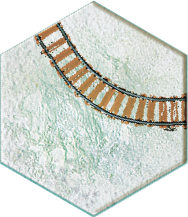
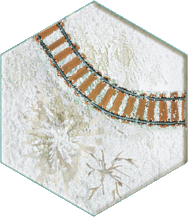
snow update

diff --git a/src/scenario/createScenario.js b/src/scenario/createScenario.js
@@ -19,13 +19,15 @@ export const CreateScenario = () =>{
   const [final,setFinal] = useState({case:null,bunker:null,defense:null,unité:null,medal:null});
   const [actualx,setActualX]  = useState(0);
   const [actualy,setActualY] = useState(0);
-  const debug = false;
   const [modal, setModal] = useState(<></>)
+  const [typeHexagone,setTypeHexagone] = useState(0)
   const screenwidth = document.getElementById("maindiv") ? document.getElementById("maindiv").clientWidth : null;
-
+  
+  const debug = false;
   let nbItemByLigne = screenwidth < 2000 ? 12 : 18;
-  let wheel = 1;
+  let wheel = 10;
   let layoutPetitEcran = false;
+
   let listHexagone = [
     "Country",
     "Hills",
@@ -68,9 +70,52 @@ export const CreateScenario = () =>{
     "TrainBranchRight",
     "TrainX",
     "TrainXRoad",
-    "Station",
+    "Station"
+
+  ]
+  let SnowlistHexagone = [
+    "Country",
+    "SnowHill",
+    "Mountain",
+    "SnowForest",
+    "Hedgerow",
+    "SnowRiversRight",
+    "SnowRiversCurve",
+    "RiverBranchLeft",
+    "RiverBranchRight",
+    "RiverY",
+    "Dam",
+    "Pond",
+    "LakeA",
+    "LakeB",
+    "LakeC",
+    "RoadRight",
+    "RoadCurve",
+    "RoadBranchLeft",
+    "RoadBranchRight",
+    "RoadX",
+    "RoadY",
+    "RoadHillRight",
+    "RoadHillCurve",
+    "SnowAirField",
+    "SnowAirFieldX",
+    "SnowVillage",
+    "Church",
+    "Barracks",
+    "Camp",
+    "Cemetery",
+    "Depot",
+    "SnowFactory",
+    "Fortress",
+    "LightHouse",
+    "Marshes",
     "SnowTrainRight",
-    "SnowTrainCurve"
+    "SnowTrainCurve",
+    "SnowTrainBranchLeft",
+    "SnowTrainBranchRight",
+    "TrainX",
+    "TrainXRoad",
+    "SnowStation",
 
   ]
   let listDivers = [
@@ -341,8 +386,9 @@ export const CreateScenario = () =>{
   const showingCard = useMemo(() => {
     let listHexagoneFinal = [];
     let listDiversFinal = [];
-    for(let i = 0;i<=parseInt(Object.keys(listHexagone).length/nbItemByLigne);i++){
-      let local = listHexagone.slice(i*nbItemByLigne,(i+1)*nbItemByLigne)
+    let listHexagone2 = typeHexagone == 0 ? listHexagone : SnowlistHexagone;
+    for(let i = 0;i<=parseInt(Object.keys(listHexagone2).length/nbItemByLigne);i++){
+      let local = listHexagone2.slice(i*nbItemByLigne,(i+1)*nbItemByLigne)
       listHexagoneFinal.push(
         <div className={`flex flew-row mb-[20px]`} key={`hexagone-${i}`}>
         {local.map((item,pos)=>{return <div className={`${screenwidth < 2000 ? "w-[50px]" : "w-[65px]"} relative`} key={item} onMouseEnter={()=>{UpdateGrille("case",item == "Country" ? null : returnHexagone(item,orientation))}}   onClick={()=>{setFinal({...final,case:final.case ? null : returnHexagone(item,0)})}} >{returnHexagone(item,0).hexagone.render()}</div>})}
@@ -359,6 +405,16 @@ export const CreateScenario = () =>{
     }  
     return <div className='ml-8 mt-8 flex flex-row'>
       <div className='flex flex-col '>
+        <div className="flex flex-row gap-8"> 
+          <div className="bg-lightgrey w-fit p-2 rounded-full flex flex-row gap-4 hover:cursor-pointer" onClick={()=>{setTypeHexagone(0)}}>
+            <div className="flex center"><div className={`w-4 h-4 rounded-full ${typeHexagone == 0 ? "bg-white border-4 border-green":"bg-gray"}`}></div></div>
+            <label> Plaine</label>
+          </div>
+          <div className="bg-lightgrey w-fit p-2 rounded-full flex flex-row gap-4 hover:cursor-pointer" onClick={()=>{setTypeHexagone(1)}}>
+            <div className="flex center"><div className={`w-4 h-4 rounded-full ${typeHexagone == 1 ? "bg-white border-4 border-green":"bg-gray"}`}></div></div>
+            <label> Snow</label>
+          </div>
+        </div>
         <h1 className="text-[24px] text-white mb-[10px] "> Choissiez l'hexagone : </h1>
         <div className="flex flex-col ">
           {listHexagoneFinal}
@@ -403,7 +459,7 @@ export const CreateScenario = () =>{
     </div>
 
   }
-  , [status,actualx,actualy,final,mouse])
+  , [status,actualx,actualy,final,mouse,typeHexagone])
   const Modal = useMemo(() => <div className='absolute top-0 '>{modal}</div>, [modal]);
 
   const global = useMemo(()=>{

diff --git a/src/haxagone/snow.js b/src/haxagone/snow.js
@@ -10,7 +10,65 @@ export class SnowTrainCurve extends CaseGenerique{
         super(test6("snow","h_snowrailcurve",orientation),orientation,false,false,false,false,false,false,false,"abrightness-[0.7] ")
     }
 }
+export class SnowTrainBranchLeft extends CaseGenerique{
+    constructor(orientation){
+        super(test6("snow","h_snowrailFL",orientation),orientation,false,false,false,false,false,false,false,"abrightness-[0.7] ")
+    }
+}
 
+export class SnowTrainBranchRight extends CaseGenerique{
+    constructor(orientation){
+        super(test6("snow","h_snowrailFR",orientation),orientation,false,false,false,false,false,false,false,"abrightness-[0.7] ")
+    }
+}
+export class SnowStation extends CaseGenerique{
+    constructor(orientation){
+        super(test3("snow","h_snowstation",orientation),orientation,false,false,false,false,false,false,false,"abrightness-[0.7] ")
+    }
+}
+
+export class SnowForest extends CaseGenerique{
+    constructor(orientation){
+        super(`images/snow/h_wforest.png`,null,{soldat:-2,tank:-2},true,false,true,false,false,false,"abrightness-[0.60] ")
+    }
+}
+export class SnowHill extends CaseGenerique{
+    constructor(orientation){
+        super(`images/snow/h_whill.png`,null,{soldat:-2,tank:-2},true,false,true,false,false,false,"abrightness-[0.60] ")
+    }
+}
+export class SnowVillage extends CaseGenerique{
+    constructor(orientation){
+        super(`images/snow/h_wvillage.png`,null,{soldat:-2,tank:-2},true,false,true,false,false,false,"abrightness-[0.60] ")
+    }
+}
+
+export class SnowRiversRight extends CaseGenerique{
+    constructor(orientation){
+        super(test3("snow","h_wriver",orientation),orientation,false,false,false,false,false,false,false,"")   
+    }
+}
+export class SnowRiversCurve extends CaseGenerique{
+    constructor(orientation){
+        super(test6("snow","h_wcurved",orientation),orientation,false,false,false,false,false,false,false," ")
+           }
+}
+export class SnowFactory extends CaseGenerique{
+    constructor(orientation){
+        super(`images/snow/h_wfactory.png`,null,{soldat:-2,tank:-2},true,false,true,false,false,false,"abrightness-[0.60] ")
+    }
+}
+
+export class SnowAirField extends CaseGenerique{
+    constructor(orientation){
+        super(test3("snow","h_wairfield",orientation),orientation,false,false,false,false,false,false,false,"")   
+    }
+}
+export class SnowAirFieldX extends CaseGenerique{
+    constructor(orientation){
+        super(test3("snow","h_wairfieldX",orientation),orientation,false,false,false,false,false,false,false,"")   
+    }
+}
 
 //how edit snow image
 // saturation -16 87 0

diff --git a/src/haxagone/base.js b/src/haxagone/base.js
@@ -1,6 +1,6 @@
 import { CaseGenerique, test3, test6 } from "../divers/Generique";
 import { Medal, SelectHexa } from "./highlight";
-import { SnowTrainCurve, SnowTrainRight } from "./snow";
+import { SnowAirField, SnowAirFieldX, SnowFactory, SnowForest, SnowHill, SnowRiversCurve, SnowRiversRight, SnowStation, SnowTrainBranchLeft, SnowTrainBranchRight, SnowTrainCurve, SnowTrainRight, SnowVillage } from "./snow";
 import { AirField, AirFieldX, Barracks, Camp, Casemate, Cemetery, Church, Dam, Depot, Factory, Ford, Fortress, LakeA, LakeB, LakeC, LightHouse, Loco, Marshes, Mountain, Pond, Pontoon, RailBridge, RiverBranchLeft, RiverBranchRight, RiverY, RoadBlock, RoadBranchLeft, RoadBranchRight, RoadCurve, RoadHillCurve, RoadHillRight, RoadRight, RoadX, RoadY, Station, TrainBranchLeft, TrainBranchRight, TrainCurve, TrainRight, TrainX, TrainXRoad, Wagon } from "./terrain";
 
 export class Country extends CaseGenerique {
@@ -193,6 +193,28 @@ export function returnHexagone(text,orientation){
             return {hexagone:new SnowTrainRight(orientation),orientation:3}
         case "SnowTrainCurve":
             return {hexagone:new SnowTrainCurve(orientation),orientation:6}
+        case "SnowTrainBranchLeft":
+            return {hexagone: new SnowTrainBranchLeft(orientation),orientation:6}
+        case "SnowTrainBranchRight":
+            return {hexagone: new SnowTrainBranchRight(orientation),orientation:6}
+        case "SnowStation":
+            return {hexagone: new SnowStation(orientation),orientation:3}
+        case "SnowForest":
+            return {hexagone: new SnowForest(),orientation:0}
+        case "SnowHill":
+            return {hexagone: new SnowHill(),orientation:0}
+        case "SnowVillage":
+            return {hexagone: new SnowVillage(),orientation:0}
+        case "SnowRiversRight":
+            return {hexagone: new SnowRiversRight(orientation),orientation:3}
+        case "SnowRiversCurve":
+            return {hexagone: new SnowRiversCurve(orientation),orientation:6}
+        case "SnowFactory":
+            return {hexagone: new SnowFactory(),orientation:0}
+        case "SnowAirField":
+            return {hexagone: new SnowAirField(orientation),orientation:3}
+        case "SnowAirFieldX":
+            return {hexagone: new SnowAirFieldX(orientation),orientation:3}
         case "":
             return {hexagone: null,orientation:0}
         default:

diff --git a/src/scenario/index.js b/src/scenario/index.js
@@ -2,7 +2,7 @@ import { useState,useMemo } from "react";
 import { Scenariovide } from "./scenariovide";
 import { Scenariotest } from './scenariotest';
 
-import {Assaultsurvassieuxenvercours,Batailledesaintnizier,Marquisdemalleval,SacrificeàValchevrière,Défensedespas} from "./batailleduvercors/index"
+import {Assaultsurvassieuxenvercours,Batailledesaintnizier,Marquisdemalleval,SacrificeaValchevrière,Défensedespas} from "./batailleduvercors/index"
 import {PegasusBridge,PointeDuHoc,SainteMereEglise,SwordBearch,OmahaBeach,MontMouchet } from "./batailledebarquement/index"
 
 import { Link } from 'react-router-dom';
@@ -69,7 +69,7 @@ export function ReturnScenario(scenarioname){
         case "Marquisdemalleval":
             return Marquisdemalleval; 
         case "SacrificeaValchevrière":
-            return SacrificeàValchevrière;
+            return SacrificeaValchevrière;
         case "Défensedespas":
             return Défensedespas;
         case "PegasusBridge":

diff --git a/src/scenario/batailleduvercors/index.js b/src/scenario/batailleduvercors/index.js
@@ -2,5 +2,5 @@ import { Assaultsurvassieuxenvercours } from "./Assaultsurvassieuxenvercours";
 import { Batailledesaintnizier } from "./Batailledesaintnizier";
 import { Défensedespas } from "./Défensedespas";
 import { Marquisdemalleval } from "./Marquisdemalleval";
-import { SacrificeàValchevrière } from "./Sacrificeavalchevrière";
-export {Assaultsurvassieuxenvercours,Batailledesaintnizier,Défensedespas,Marquisdemalleval,SacrificeàValchevrière}
+import { SacrificeaValchevrière } from "./SacrificeaValchevrière";
+export {Assaultsurvassieuxenvercours,Batailledesaintnizier,Défensedespas,Marquisdemalleval,SacrificeaValchevrière}

diff --git a/src/scenario/batailleduvercors/SacrificeaValchevrière.js b/src/scenario/batailleduvercors/SacrificeaValchevrière.js
@@ -5,7 +5,7 @@ import { Forest, Hills, Mine, RiversCurve, RiversRight, SandBag, Village } from 
 import { Medal } from "../../haxagone/highlight";
 import { AirField, Church, Mountain, RiverBranch, RiverY, RoadCurve, RoadHillCurve, RoadRight } from "../../haxagone/terrain";
 
-export const SacrificeàValchevrière= {
+export const SacrificeaValchevrière= {
    name:"Sacrifice a Valchevrière",
    terrain:"terrain0",
    medalAllies:6,
